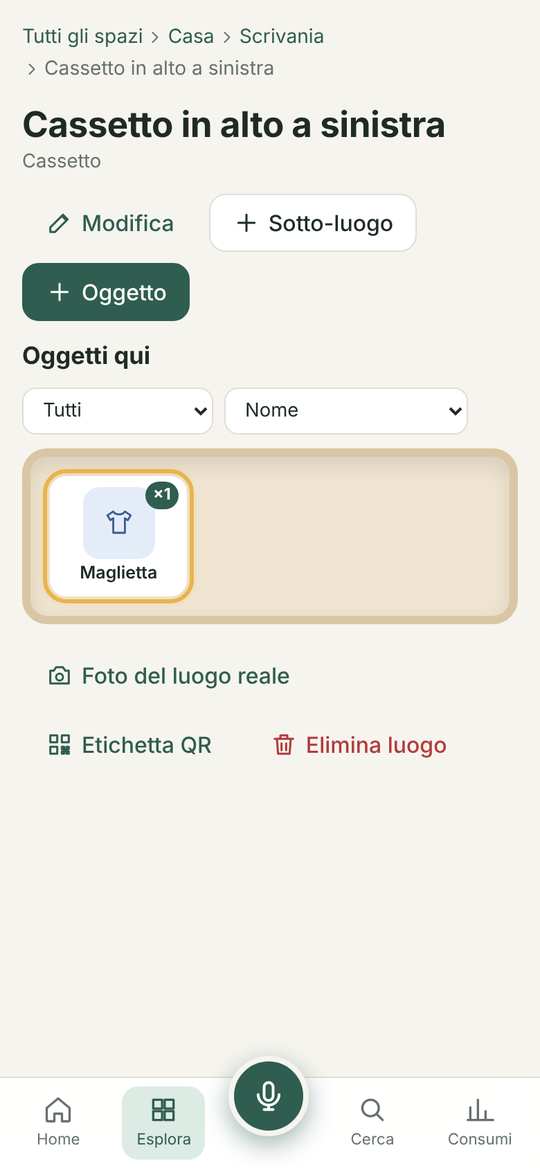
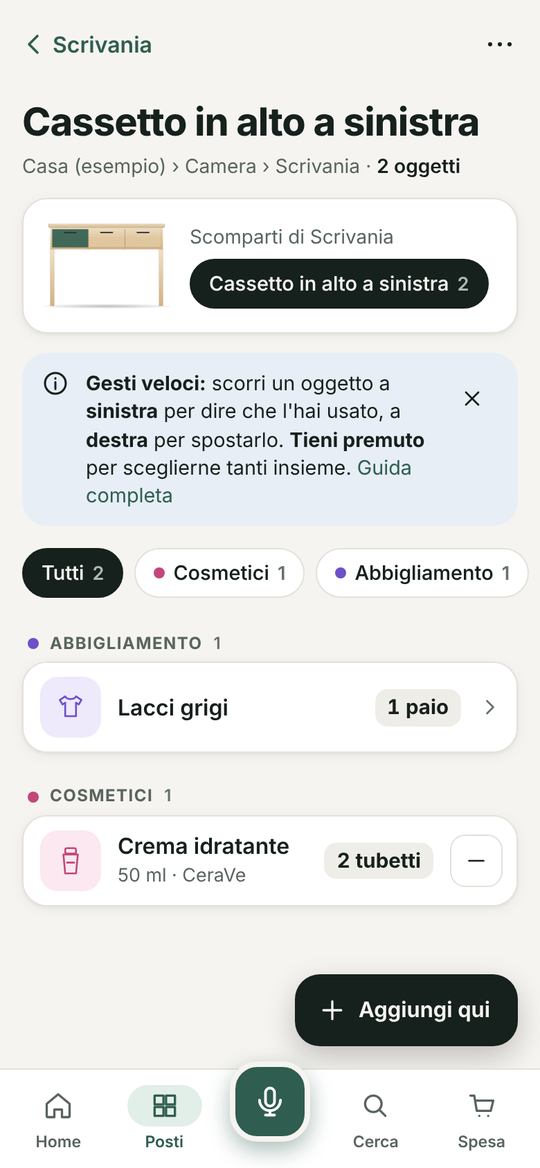
Ripostia: vetrina aggiornata alla 0.5.0 (funzioni e immagini nuove)
- «Cosa fa» riscritto: mobili su misura da foto, Trovato!, foto e video,
  spesa e stime, gesti e liste, QR, backup
- Immagini nuove con dati di esempio (scrivania, disegna il mobile, trovato,
  cassetto, spesa, foto, chiedi, armadio), anche nel README
- Immagini in alto dentro <picture> come nelle altre app (non coprono più il titolo)

Claude-Session: https://claude.ai/code/session_01VUdENiCE2JSSQwk9MRwo3G

diff --git a/docs/ripostia/index.html b/docs/ripostia/index.html
@@ -38,8 +38,8 @@
             <h1>Ripostia</h1>
           </div>
           <p class="lead">Ogni cosa al suo posto. Basta chiedere.</p>
-          <p class="muted">Inventario personale visuale: stanze, mobili, cassetti e oggetti, con foto, quantità e consumi.
-            Gratis, senza account e senza pubblicità: i dati restano sul tuo dispositivo.</p>
+          <p class="muted">Inventario personale visuale: i tuoi mobili disegnati su misura, cassetti con il loro nome, oggetti con foto,
+            quantità, scadenze e lista della spesa. Gratis, senza account e senza pubblicità: i dati restano sul tuo dispositivo.</p>
           <div class="buttons" id="scarica">
             <a class="btn btn-primary" href="https://ripostia.pages.dev" rel="noopener">
               <svg viewBox="0 0 24 24" aria-hidden="true"><path fill="currentColor" d="M12 2a10 10 0 1 0 0 20 10 10 0 0 0 0-20Zm6.9 6h-3a15.7 15.7 0 0 0-1.4-3.6A8 8 0 0 1 18.9 8ZM12 4c.8 1.2 1.5 2.5 1.9 4h-3.8c.4-1.5 1.1-2.8 1.9-4ZM4.3 14a8.2 8.2 0 0 1 0-4h3.4a16.5 16.5 0 0 0 0 4H4.3Zm.8 2h3a15.7 15.7 0 0 0 1.4 3.6A8 8 0 0 1 5.1 16Zm3-8h-3a8 8 0 0 1 4.4-3.6C8.9 5.5 8.4 6.7 8.1 8ZM12 20c-.8-1.2-1.5-2.5-1.9-4h3.8c-.4 1.5-1.1 2.8-1.9 4Zm2.3-6H9.7a14.7 14.7 0 0 1 0-4h4.6a14.7 14.7 0 0 1 0 4Zm.2 5.6c.6-1.1 1.1-2.3 1.4-3.6h3a8 8 0 0 1-4.4 3.6Zm1.8-5.6a16.5 16.5 0 0 0 0-4h3.4a8.2 8.2 0 0 1 0 4h-3.4Z"/></svg>
@@ -53,8 +53,8 @@
           <p class="status" id="versione">Su iPhone e computer usa la web app: su iPhone si aggiunge alla schermata Home da Safari.</p>
         </div>
         <div class="hero-shot">
-          <img src="../assets/ripostia/screenshot/telefono-cassetto.png" alt="Cassetto aperto con l'oggetto evidenziato (dati di esempio)" width="540" height="1168">
-          <img src="../assets/ripostia/screenshot/telefono-chiedi.png" alt="Assistente: piano da confermare (dati di esempio)" width="540" height="1168">
+          <picture><img src="../assets/ripostia/screenshot/telefono-scrivania.png" alt="Scrivania disegnata con il nome di ogni cassetto (dati di esempio)" width="540" height="1168"></picture>
+          <picture><img src="../assets/ripostia/screenshot/telefono-disegna.png" alt="Disegna il mobile da foto e descrizione (dati di esempio)" width="540" height="1168"></picture>
         </div>
       </div>
     </section>
@@ -83,28 +83,28 @@
         </div>
         <div class="grid">
           <div class="card feature">
+            <h3><span class="ico"><svg viewBox="0 0 24 24" aria-hidden="true"><path fill="currentColor" d="M21 7 12 2 3 7v10l9 5 9-5V7Zm-9 2.2L6.5 6.3 12 3.3l5.5 3-5.5 2.9ZM5 8.5l6 3.3v7.4l-6-3.3V8.5Zm8 10.7v-7.4l6-3.3v7.4l-6 3.3Z"/></svg></span>Mobili su misura</h3>
+            <p>Fai una foto al mobile, anche brutta, e descrivilo («comò, 2 cassetti piccoli in alto e 3 grandi sotto»): Ripostia lo ridisegna pulito, con colore, maniglie e un cartellino per ogni cassetto. Poi lo ritocchi a dito.</p>
+          </div>
+          <div class="card feature">
+            <h3><span class="ico"><svg viewBox="0 0 24 24" aria-hidden="true"><path fill="currentColor" d="M10 2a8 8 0 1 0 4.9 14.3l5.4 5.4 1.4-1.4-5.4-5.4A8 8 0 0 0 10 2Zm0 2a6 6 0 1 1 0 12 6 6 0 0 1 0-12Z"/></svg></span>Trovato!</h3>
+            <p>«Dove sono i lacci?»: compare il disegno del mobile con il cassetto giusto acceso e il percorso completo. Se chiedi a voce, ti risponde a voce. Funziona anche offline.</p>
+          </div>
+          <div class="card feature">
             <h3><span class="ico"><svg viewBox="0 0 24 24" aria-hidden="true"><path fill="currentColor" d="M12 14a3 3 0 0 0 3-3V5a3 3 0 0 0-6 0v6a3 3 0 0 0 3 3Zm5-3a5 5 0 0 1-10 0H5a7 7 0 0 0 6 6.9V21h2v-3.1a7 7 0 0 0 6-6.9h-2Z"/></svg></span>Parla o scrivi</h3>
             <p>«Metti una maglietta nel cassetto in alto a sinistra della scrivania»: Ripostia ti mostra cosa farà, tu confermi, e apre il cassetto con l'oggetto evidenziato. Annulla sempre possibile.</p>
           </div>
           <div class="card feature">
-            <h3><span class="ico"><svg viewBox="0 0 24 24" aria-hidden="true"><path fill="currentColor" d="M3 5h2v2H3V5Zm4 0h14v2H7V5ZM3 11h2v2H3v-2Zm4 0h14v2H7v-2Zm-4 6h2v2H3v-2Zm4 0h14v2H7v-2Z"/></svg></span>Liste già divise</h3>
-            <p>Incolla una lista con il luogo come intestazione e un oggetto per riga: la inserisce tutta in un colpo, anche senza AI.</p>
+            <h3><span class="ico"><svg viewBox="0 0 24 24" aria-hidden="true"><path fill="currentColor" d="M12 9a4 4 0 1 0 0 8 4 4 0 0 0 0-8Zm8-3h-3.2L15 4H9L7.2 6H4a2 2 0 0 0-2 2v11a2 2 0 0 0 2 2h16a2 2 0 0 0 2-2V8a2 2 0 0 0-2-2Z"/></svg></span>Foto e video</h3>
+            <p>Fotografa un cassetto (anche più foto) o riprendi gli oggetti dicendo cosa sono e quando scadono: l'AI li riconosce uno per uno, con ritaglio. Gratis anche con ChatGPT o Gemini, copiando e incollando.</p>
           </div>
           <div class="card feature">
-            <h3><span class="ico"><svg viewBox="0 0 24 24" aria-hidden="true"><path fill="currentColor" d="M21 7 12 2 3 7v10l9 5 9-5V7Zm-9 2.2L6.5 6.3 12 3.3l5.5 3-5.5 2.9ZM5 8.5l6 3.3v7.4l-6-3.3V8.5Zm8 10.7v-7.4l6-3.3v7.4l-6 3.3Z"/></svg></span>Casa disegnata</h3>
-            <p>Stanze, mobili, cassetti e ripiani illustrati e cliccabili: scrivania, armadio con appendiabiti, cassettiere, scaffali, valigia e altri.</p>
+            <h3><span class="ico"><svg viewBox="0 0 24 24" aria-hidden="true"><path fill="currentColor" d="M3 21V3h2v16h16v2H3Zm4-4V10h3v7H7Zm5 0V6h3v11h-3Zm5 0v-4h3v4h-3Z"/></svg></span>Spesa che si fa da sola</h3>
+            <p>Scegli quanti pezzi tenere sempre in casa: quando scendi sotto, finiscono in «Da comprare». L'app impara quanto ti dura ogni cosa e ti dice quando ricomprarla.</p>
           </div>
           <div class="card feature">
-            <h3><span class="ico"><svg viewBox="0 0 24 24" aria-hidden="true"><path fill="currentColor" d="M10 2a8 8 0 1 0 4.9 14.3l5.4 5.4 1.4-1.4-5.4-5.4A8 8 0 0 0 10 2Zm0 2a6 6 0 1 1 0 12 6 6 0 0 1 0-12Z"/></svg></span>Ritrovi tutto</h3>
-            <p>«Dove sono i lacci grigi?»: ricerca per nome, marca, sinonimi e note, con il percorso completo. Funziona anche offline.</p>
-          </div>
-          <div class="card feature">
-            <h3><span class="ico"><svg viewBox="0 0 24 24" aria-hidden="true"><path fill="currentColor" d="M3 21V3h2v16h16v2H3Zm4-4V10h3v7H7Zm5 0V6h3v11h-3Zm5 0v-4h3v4h-3Z"/></svg></span>Consumi veri</h3>
-            <p>Conta solo ciò che usi davvero (spostare o vendere non è un consumo): totali per mese e anno, cose da ricomprare, scadenze, «durerà circa…».</p>
-          </div>
-          <div class="card feature">
-            <h3><span class="ico"><svg viewBox="0 0 24 24" aria-hidden="true"><path fill="currentColor" d="M12 9a4 4 0 1 0 0 8 4 4 0 0 0 0-8Zm8-3h-3.2L15 4H9L7.2 6H4a2 2 0 0 0-2 2v11a2 2 0 0 0 2 2h16a2 2 0 0 0 2-2V8a2 2 0 0 0-2-2Z"/></svg></span>Foto e codici a barre</h3>
-            <p>Foto con ritaglio, riconoscimento con AI senza marche inventate, ricerca del codice a barre nei cataloghi aperti, icone per categoria.</p>
+            <h3><span class="ico"><svg viewBox="0 0 24 24" aria-hidden="true"><path fill="currentColor" d="M3 5h2v2H3V5Zm4 0h14v2H7V5ZM3 11h2v2H3v-2Zm4 0h14v2H7v-2Zm-4 6h2v2H3v-2Zm4 0h14v2H7v-2Z"/></svg></span>Gesti e liste</h3>
+            <p>Scorri un oggetto a sinistra per «usato», a destra per spostarlo, tieni premuto per sceglierne tanti. Incolla un inventario intero diviso per luoghi: crea tutto da sola, anche senza AI.</p>
           </div>
           <div class="card feature">
             <h3><span class="ico"><svg viewBox="0 0 24 24" aria-hidden="true"><path fill="currentColor" d="M3 3h8v8H3V3Zm2 2v4h4V5H5Zm8-2h8v8h-8V3Zm2 2v4h4V5h-4ZM3 13h8v8H3v-8Zm2 2v4h4v-4H5Zm8-2h2v2h-2v-2Zm2 2h2v2h-2v-2Zm2-2h4v2h-4v-2Zm0 4h2v4h-4v-2h2v-2Zm-4 2h2v2h-2v-2Zm6 0h2v2h-2v-2Z"/></svg></span>Etichette QR</h3>
@@ -113,10 +113,6 @@
           <div class="card feature">
             <h3><span class="ico"><svg viewBox="0 0 24 24" aria-hidden="true"><path fill="currentColor" d="M19 3H5a2 2 0 0 0-2 2v14a2 2 0 0 0 2 2h14a2 2 0 0 0 2-2V7l-2-4ZM12 19a3 3 0 1 1 0-6 3 3 0 0 1 0 6Zm3-10H5V5h10v4Z"/></svg></span>Backup in un file</h3>
             <p>Tutto in un unico file, anche protetto da password, con promemoria periodico. Ripristino verificato.</p>
-          </div>
-          <div class="card feature">
-            <h3><span class="ico"><svg viewBox="0 0 24 24" aria-hidden="true"><path fill="currentColor" d="M4 6h11a1 1 0 0 1 1 1v3.5l4-2.5v8l-4-2.5V17a1 1 0 0 1-1 1H4a1 1 0 0 1-1-1V7a1 1 0 0 1 1-1Z"/></svg></span>Video (sperimentale)</h3>
-            <p>Registri un video breve mostrando gli oggetti: dopo, l'AI propone l'elenco da confermare. Spento all'inizio.</p>
           </div>
         </div>
       </div>
@@ -129,12 +125,14 @@
           <p class="muted">Gli oggetti nelle immagini sono <strong>dati di esempio</strong>. Tocca un'immagine per ingrandirla.</p>
         </div>
         <div class="gallery phone" tabindex="0" aria-label="Immagini sul telefono, scorri di lato">
-          <figure><a href="../assets/ripostia/screenshot/telefono-cassetto.png"><img loading="lazy" src="../assets/ripostia/screenshot/telefono-cassetto.png" alt="Cassetto aperto" width="540" height="1168"></a><figcaption>Cassetto aperto</figcaption></figure>
+          <figure><a href="../assets/ripostia/screenshot/telefono-scrivania.png"><img loading="lazy" src="../assets/ripostia/screenshot/telefono-scrivania.png" alt="Scrivania: ogni cassetto col suo nome" width="540" height="1168"></a><figcaption>Scrivania: ogni cassetto col suo nome</figcaption></figure>
+          <figure><a href="../assets/ripostia/screenshot/telefono-disegna.png"><img loading="lazy" src="../assets/ripostia/screenshot/telefono-disegna.png" alt="Disegna il mobile da foto e descrizione" width="540" height="1168"></a><figcaption>Disegna il mobile da foto e descrizione</figcaption></figure>
+          <figure><a href="../assets/ripostia/screenshot/telefono-trovato.png"><img loading="lazy" src="../assets/ripostia/screenshot/telefono-trovato.png" alt="Trovato!: il cassetto acceso" width="540" height="1168"></a><figcaption>Trovato!: il cassetto acceso</figcaption></figure>
+          <figure><a href="../assets/ripostia/screenshot/telefono-cassetto.png"><img loading="lazy" src="../assets/ripostia/screenshot/telefono-cassetto.png" alt="Cassetto aperto, per categorie" width="540" height="1168"></a><figcaption>Cassetto aperto, per categorie</figcaption></figure>
+          <figure><a href="../assets/ripostia/screenshot/telefono-spesa.png"><img loading="lazy" src="../assets/ripostia/screenshot/telefono-spesa.png" alt="Spesa: cosa comprare e quando" width="540" height="1168"></a><figcaption>Spesa: cosa comprare e quando</figcaption></figure>
+          <figure><a href="../assets/ripostia/screenshot/telefono-foto.png"><img loading="lazy" src="../assets/ripostia/screenshot/telefono-foto.png" alt="Aggiungi con foto o video" width="540" height="1168"></a><figcaption>Aggiungi con foto o video</figcaption></figure>
           <figure><a href="../assets/ripostia/screenshot/telefono-chiedi.png"><img loading="lazy" src="../assets/ripostia/screenshot/telefono-chiedi.png" alt="Chiedi: piano da confermare" width="540" height="1168"></a><figcaption>Chiedi: piano da confermare</figcaption></figure>
           <figure><a href="../assets/ripostia/screenshot/telefono-armadio.png"><img loading="lazy" src="../assets/ripostia/screenshot/telefono-armadio.png" alt="Armadio" width="540" height="1168"></a><figcaption>Armadio</figcaption></figure>
-          <figure><a href="../assets/ripostia/screenshot/telefono-voce.png"><img loading="lazy" src="../assets/ripostia/screenshot/telefono-voce.png" alt="Voce: testo da correggere" width="540" height="1168"></a><figcaption>Voce: testo da correggere</figcaption></figure>
-          <figure><a href="../assets/ripostia/screenshot/telefono-foto-ai.png"><img loading="lazy" src="../assets/ripostia/screenshot/telefono-foto-ai.png" alt="Foto riconosciuta con AI" width="540" height="1168"></a><figcaption>Foto riconosciuta con AI</figcaption></figure>
-          <figure><a href="../assets/ripostia/screenshot/telefono-comando-ai.png"><img loading="lazy" src="../assets/ripostia/screenshot/telefono-comando-ai.png" alt="Comando con l'AI" width="540" height="1168"></a><figcaption>Comando con l'AI</figcaption></figure>
         </div>
       </div>
     </section>

diff --git a/docs/index.html b/docs/index.html
@@ -100,8 +100,8 @@
           <img class="logo" src="assets/ripostia/icona-192.png" alt="Icona di Ripostia" width="88" height="88" style="border-radius:20px">
           <div>
             <h3 style="font-size:24px">Ripostia</h3>
-            <p class="muted">Inventario personale visuale: stanze, mobili, cassetti e oggetti. Dici o scrivi dove metti le cose
-              e le ritrovi subito, con foto, consumi, etichette QR e backup. Senza account: i dati restano sul dispositivo.</p>
+            <p class="muted">Inventario personale visuale: fotografi un mobile e lo ridisegna su misura, dici o scrivi dove metti le cose
+              e le ritrovi subito, con foto, scadenze, lista della spesa, etichette QR e backup. Senza account: i dati restano sul dispositivo.</p>
             <ul class="tags" aria-label="Disponibile per">
               <li>Web app</li><li>Android</li><li>iPhone (web app)</li><li>Computer</li>
             </ul>

diff --git a/ripostia/README.md b/ripostia/README.md
@@ -1,17 +1,18 @@
 # <img src="grafica/icona-192.png" alt="" width="40" height="40" align="top"> Ripostia
 
 **Ogni cosa al suo posto. Basta chiedere.**
-Inventario personale visuale: stanze, mobili, cassetti e oggetti, con foto, quantità e consumi.
-Dici o scrivi «metti una maglietta nel cassetto in alto a sinistra della scrivania» e Ripostia la sistema.
+Inventario personale visuale: i tuoi mobili disegnati su misura (basta una foto e due parole), cassetti con il loro nome,
+oggetti con foto, quantità, scadenze e lista della spesa che si aggiorna da sola.
+Dici o scrivi «metti una maglietta nel cassetto in alto a sinistra della scrivania» e Ripostia la sistema; chiedi «dove sono i lacci?» e te lo mostra.
 Gratis, senza account, senza pubblicità: i dati restano sul tuo dispositivo.
 
 [Apri la web app](https://ripostia.pages.dev) · [Novità (changelog)](CHANGELOG.md) · [Privacy](PRIVACY.md) ·
 [Pagina sul sito](https://layaris.github.io/DMReleases/ripostia/) · [Tutte le app](../README.md)
 
 <p align="center">
-  <img src="grafica/screenshot/telefono-chiedi.png" alt="Assistente: piano da confermare" width="220">
-  <img src="grafica/screenshot/telefono-cassetto.png" alt="Cassetto aperto con l'oggetto evidenziato" width="220">
-  <img src="grafica/screenshot/telefono-armadio.png" alt="Armadio con appendiabiti e ripiani" width="220">
+  <img src="grafica/screenshot/telefono-scrivania.png" alt="Scrivania disegnata con il nome di ogni cassetto" width="220">
+  <img src="grafica/screenshot/telefono-disegna.png" alt="Disegna il mobile da foto e descrizione" width="220">
+  <img src="grafica/screenshot/telefono-trovato.png" alt="Trovato!: il cassetto giusto acceso" width="220">
 </p>
 
 <sub>Gli oggetti nelle immagini sono dati di esempio.</sub>
@@ -46,6 +47,7 @@ Ripostia non ha un cloud: per non perdere l'inventario (telefono rotto, app disi
 
 ## Funzioni AI (facoltative)
 
-Voce, frasi libere, riconoscimento foto, illustrazioni e scansione video usano un provider AI a tua scelta
-(Gemini, NanoGPT o compatibile OpenAI) con la **tua** chiave, che resta sul telefono. Possono avere un costo sul tuo
-account del provider. Senza AI l'app si usa a mano, e le domande e le liste semplici funzionano lo stesso.
+Voce, frasi libere, mobile ridisegnato dalla foto, riconoscimento di foto e video e immagini degli oggetti usano un
+provider AI a tua scelta (Gemini, NanoGPT o compatibile OpenAI) con la **tua** chiave, che resta sul telefono. Possono avere
+un costo sul tuo account del provider (con NanoGPT pochi millesimi di euro a richiesta). Senza AI l'app si usa a mano: domande,
+liste e mobili descritti a parole funzionano lo stesso, e per foto e video c'è la modalità gratuita con ChatGPT o Gemini (copia e incolla).
